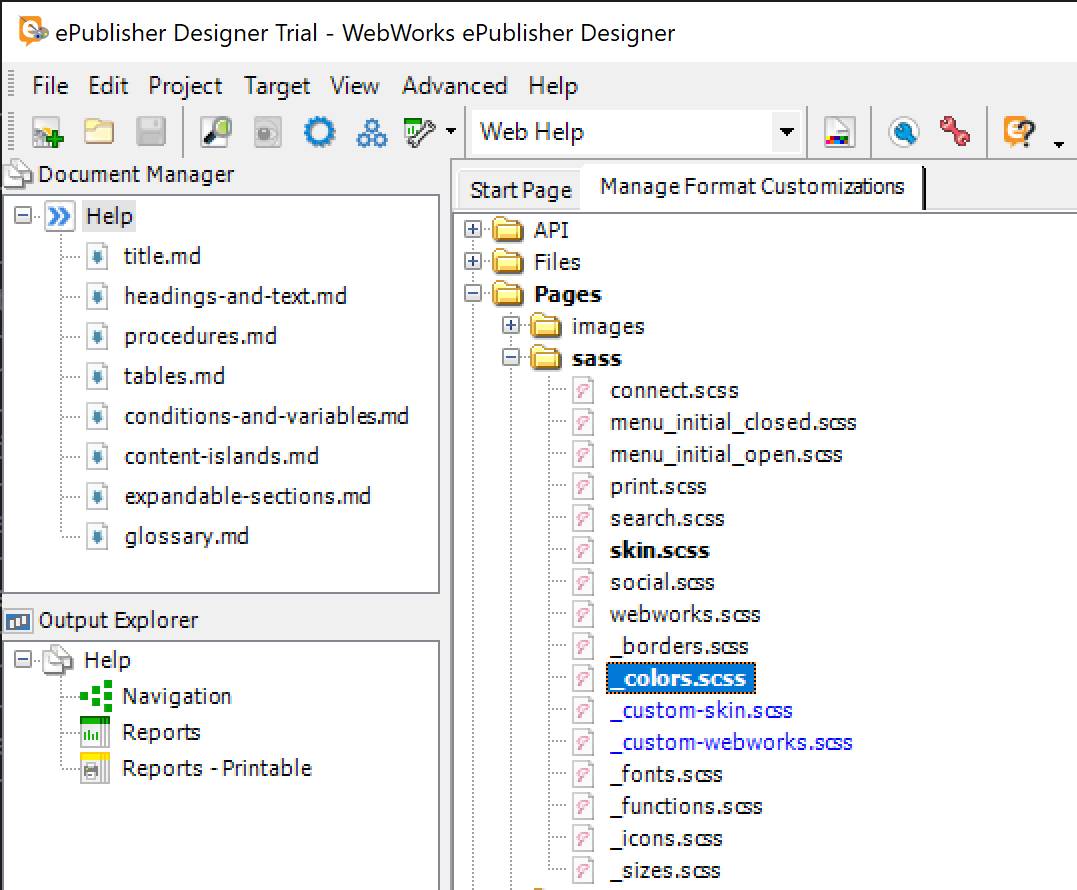
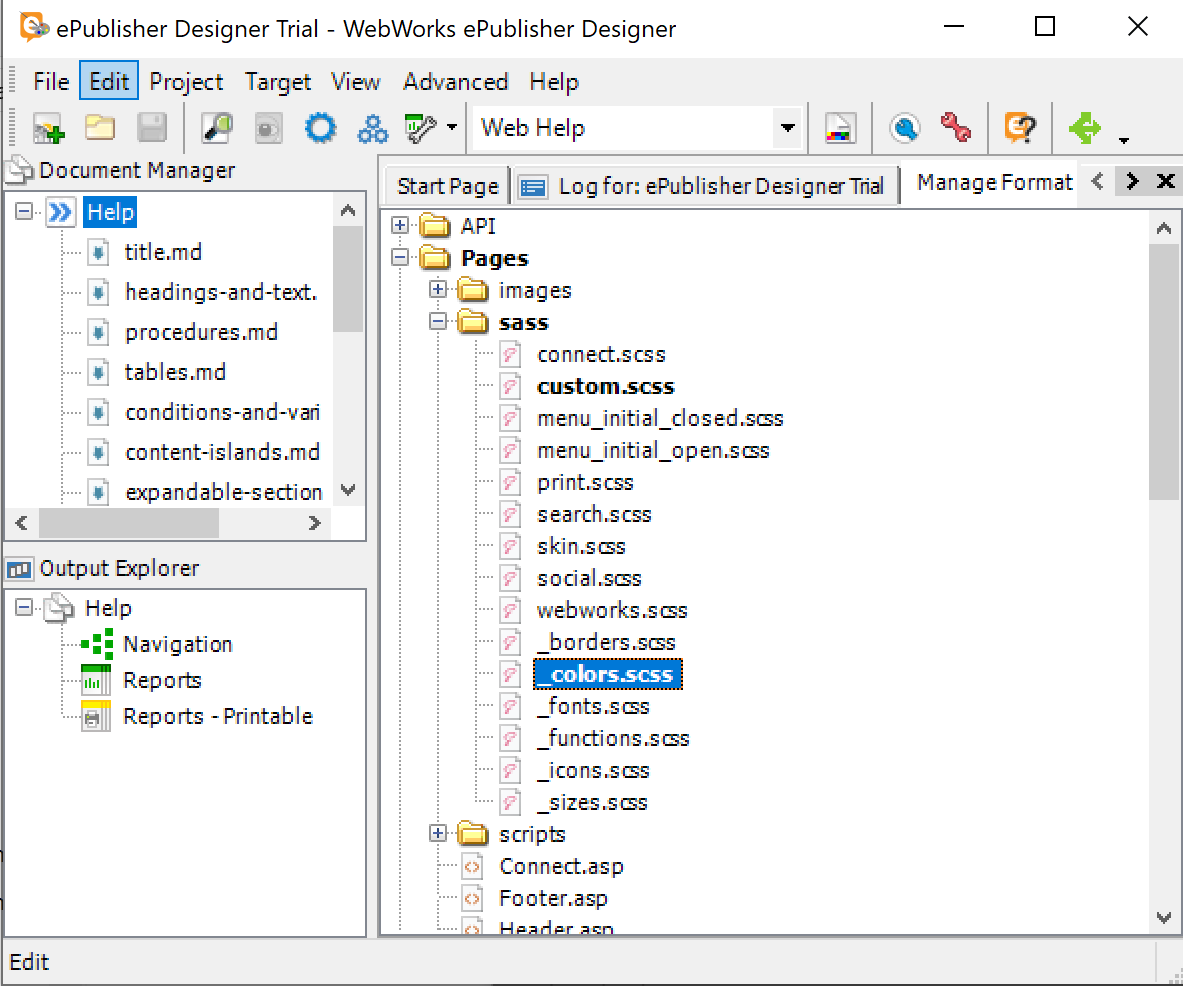
docs: Align online trial guides with 2026.1 GA changes (#26)
Follow-up to #25 (the 2026.1 GA project migration). Bring the online
trial guides current with the platform changes users now see in output.

Designer trial guide:
* Step 1 -- add a splash-page landing note so readers know what to expect
  when they open the generated output (show-first-document is now false,
  the splash page is the entry point).
* Step 3 -- add a "Beyond colors" tip pointing to the other sass partials
  (_borders.scss, _sizes.scss, _fonts.scss) and to custom.scss for custom
  CSS selectors. Introduces the 2026.1 two-path customization model
  (variable overrides vs. custom-selector layer).
* Screenshots: replaced designer-manage-format-customizations.png (sass
  folder now shows custom.scss instead of skin.scss + _custom-*.scss)
  and designer-output-result.png (output now lands on the splash page).

Express trial guide:
* Step 2 -- add "Splash Page" row to the "What You Get" table so readers
  see the splash-page landing as an explicit feature.

Text-only content changes were minimal because neither guide referenced
the deleted SCSS filenames or the show-first-document toggle by name.
The screenshots and one narrative each covered the visible impact.

diff --git a/latest/online-trial-guides/designer-trial/designer-trial-guide.md b/latest/online-trial-guides/designer-trial/designer-trial-guide.md
@@ -35,6 +35,8 @@ The Document Manager (left panel) shows your source documents already loaded. Ge
 <!-- style:Screenshot -->
 ![Document Manager with source documents and Generate All button](images/designer-doc-manager.png)
 
+Your output opens on a **splash page** with the top-level sections highlighted as cards — a friendly landing point for readers exploring the doc set.
+
 <!-- #content-rules -->
 ## Step 2: Customize Content Rules
 
@@ -84,6 +86,8 @@ The File Differences Viewer shows the installed default file on the left and you
 > **Tip:** Right-click any file and select **Edit File...** to open it in an external editor instead. Editors like VS Code show inline color swatches for hex values, making it easy to pick and preview brand colors.
 
 4. Click **Generate All** — the entire web theme transforms
+
+> **Beyond colors:** The `sass` folder also contains partials for borders (`_borders.scss`), sizes (`_sizes.scss`), and fonts (`_fonts.scss`) — same File Differences workflow. For custom CSS selectors targeting specific elements, edit `custom.scss` in the same folder — it's linked last on every page so your rules always win the cascade.
 
 **Replace the PDF cover:**
 

diff --git a/latest/online-trial-guides/express-trial/express-trial-guide.md b/latest/online-trial-guides/express-trial/express-trial-guide.md
@@ -52,6 +52,7 @@ Your output opens automatically in your default browser. Here's what you get:
 | Feature        | What You Get                            |
 |----------------|-----------------------------------------|
 | **Toolbar**    | Configurable features: menu, search, navigation buttons |
+| **Splash Page**| Major sections presented as clickable cards at the site root |
 | **Search**     | Instant answers with breadcrumb context |
 | **Responsive** | Perfect reading on any device           |
 | **Share**      | Share widget provides Stable links to any page |
